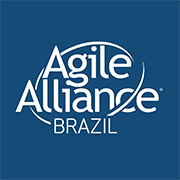
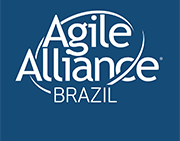
Mudar de local para o "switch language"

Changed region(s): [[0.0833, 0.0567, 0.9167, 0.766]]

diff --git a/wp-content/themes/genesis/header.php b/wp-content/themes/genesis/header.php
@@ -23,7 +23,7 @@ wp_head(); //* we need this for plugins
 
     <div class="agile inner">
 
-        <a href="/"><img src="/wp-content/uploads/2014/04/agilealliance-brazil_inverted_box.png" alt="Agile Alliance Brazil" width="130" height="130" id="logo" /></a>
+        <a href="/"><img src="/wp-content/uploads/2014/04/agilealliance-brazil_inverted_box.png" alt="Agile Alliance Brazil" width="130" height="102" id="logo" /></a>
 
     </div>
 

diff --git a/wp-content/themes/genesis/lib/structure/menu.php b/wp-content/themes/genesis/lib/structure/menu.php
@@ -75,6 +75,7 @@ function genesis_do_nav() {
 		);
 
 		$nav = wp_nav_menu( $args );
+        $nav = str_replace('</ul>', pll_the_languages(array('show_flags'=>1,'show_names'=>0, 'hide_current' => 1, 'echo' => 0)).'</ul>', $nav);
 
 		//* Do nothing if there is nothing to show
 		if ( ! $nav )
